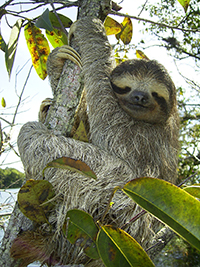
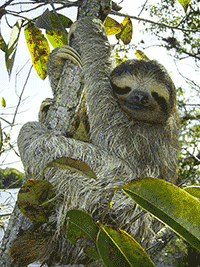
edited the images
edited the images

diff --git a/index.html b/index.html
@@ -56,7 +56,7 @@
 
     <p>Sloths are classified as folivores, as the bulk of their diets consist of buds, tender shoots, and leaves, mainly of Cecropia trees. Some two-toed sloths have been documented as eating insects, small reptiles, and birds as a small supplement to their diets. Linnaeus's two-toed sloth has recently been documented eating human faeces from open latrines.[4] They have made extraordinary adaptations to an arboreal browsing lifestyle. Leaves, their main food source, provide very little energy or nutrients, and do not digest easily. Sloths, therefore, have large, specialized, slow-acting stomachs with multiple compartments in which symbiotic bacteria break down the tough leaves. Sloths' tongues have the unique ability to protrude from their mouths 10 to 12 inches, an ability that is useful for collecting leaves just out of reach.[5] As much as two-thirds of a well-fed sloth's body weight consists of the contents of its stomach, and the digestive process can take a month or more to complete.</p>
 
-<img src="img/Two-toed_sloth_Costa_Rica_-_cropped.jpg" width="150" class="float-left" alt="" />
+<img src="img/Two-toed_sloth_Costa_Rica_-_cropped.gif" width="150" class="float-left" alt="" />
 
     <p>Since leaves provide little energy, sloths deal with this by a range of economy measures: they have very low metabolic rates (less than half of that expected for a mammal of their size), and maintain low body temperatures when active (30–34°C or 86–93°F), and still lower temperatures when resting.</p>
 
